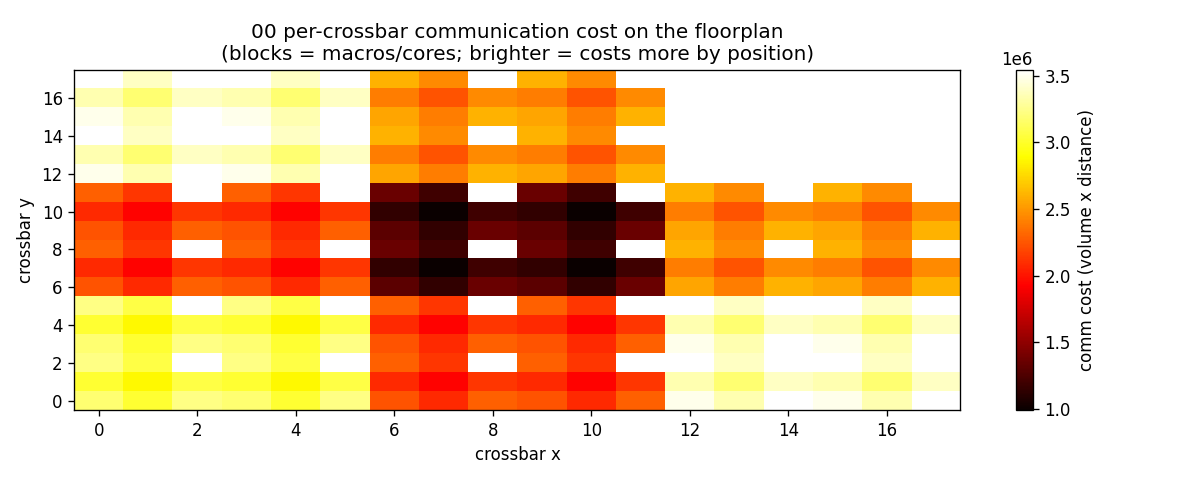
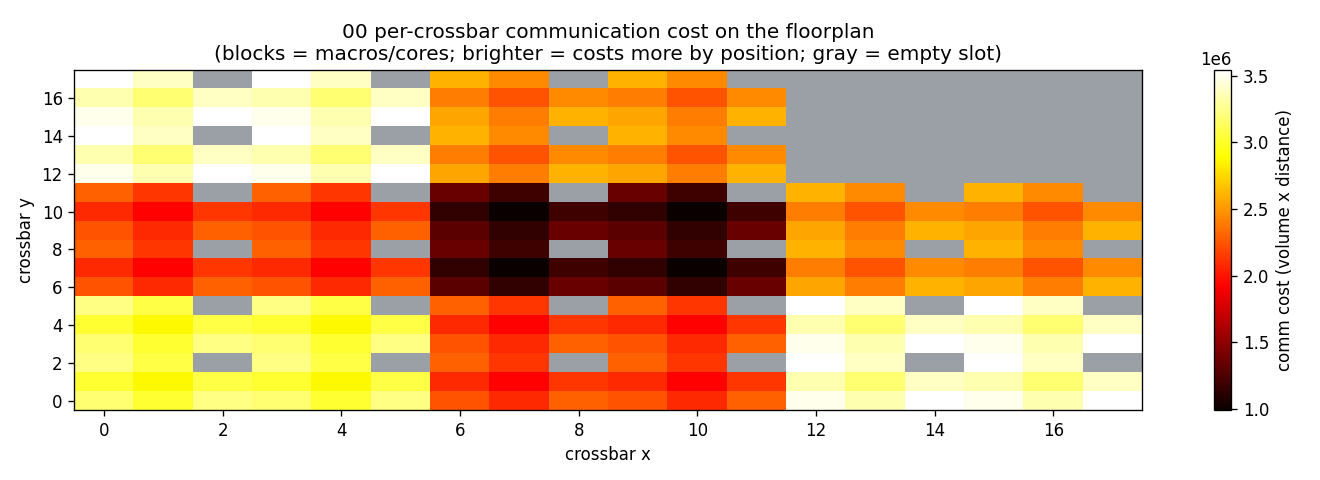
Real per-crossbar value-energy investigation (device x workload) + doc restructure
crossbar_value_real.py: a two-stage pipeline (torch extract | cimloop simulate, to
avoid an OpenMP segfault) that tiles REAL weights (GPT-2 medium / resnet18) + REAL
forward activations into 256x256 crossbar blocks and re-runs CiMLoop's single-
crossbar energy per block with its own weight+input distribution, then sums -- a
genuine per-crossbar simulation, not a redistribution.

Finding (analyze_crossbar_value_compare.py, 2x2 device x workload): per-crossbar
value-dependent energy variation is device-dependent. Bit-serial devices (wan) are
~0 for any workload (energy set by precision/phases/ADC, not values); a value-
sparsity device (raella) spreads up to 1.204x on a CNN, driven by ReLU-sparse input
heterogeneity (LayerNorm homogenizes it away on GPT-2). The earlier synthetic 1.28x
was a placeholder and is retired.

Docs: SUMMARY.en.md §3 rebuilt into a real crossbar-level analysis (stats tool +
§3.1 the experiment + figure); §4.5 trimmed to the histogram-injection correctness;
§8/§10 updated. crossbar_comm heatmap: empty slots now render gray (not white, which
collided with the hot-colormap high end); colorbar spacing fixed.

diff --git a/workspace/scripts/crossbar_value_real.py b/workspace/scripts/crossbar_value_real.py
@@ -1,0 +1,163 @@
+"""
+REAL per-crossbar value-dependent energy (Plan A), split into TWO processes so the
+torch/transformers stack and the cimloop/timeloop stack never share an interpreter
+(they segfault together -- an OpenMP clash):
+
+  extract  : (torch only) load a real weight tensor, tile it into 256x256 blocks,
+             histogram each block + the whole layer, save to JSON.
+  simulate : (cimloop only) for each tile histogram, run CiMLoop's single-crossbar
+             energy (system=ws_dummy_buffer_one_macro) with that weight distribution;
+             sum the tiles. One macro run == one 256x256 crossbar; a layer weight
+             [C x M] tiles into (C/256)x(M/256) blocks, so the tile-sum is the whole
+             layer, but distribution-accurate per crossbar. The sum DIFFERS from the
+             layer-uniform run (energy is nonlinear in the distribution) -- that gap
+             is the genuine crossbar-aware information, not a redistribution.
+
+Usage (two separate docker exec calls):
+  python3 scripts/crossbar_value_real.py extract  <hists.json>
+  python3 scripts/crossbar_value_real.py simulate <hists.json>
+"""
+import os, sys, json
+
+os.environ.setdefault("HF_HOME", "/home/workspace/.cache/hf")
+ARR = 256
+NBINS = 31
+
+
+def symmetric_hist(w, A, nbins=NBINS):
+    """31-bin symmetric zero-centered normalized histogram (numpy only)."""
+    import numpy as np
+    edges = np.linspace(-A, A, nbins + 1)
+    h, _ = np.histogram(np.clip(w, -A, A), bins=edges)
+    h = h.astype(float)
+    s = h.sum()
+    return (h / s).tolist() if s else (np.ones(nbins) / nbins).tolist()
+
+
+def extract(out_json):
+    import numpy as np
+    from transformers import GPT2Model
+    import torch
+    from transformers import GPT2Tokenizer
+    print("loading gpt2-medium ...", flush=True)
+    tok = GPT2Tokenizer.from_pretrained("gpt2-medium")
+    m = GPT2Model.from_pretrained("gpt2-medium").eval()
+    W = m.h[0].mlp.c_fc.weight.detach().numpy()      # Conv1D c_fc: [C=1024, M=4096]
+
+    # capture the REAL ffn1 INPUT activations on a sample text (the value-dependent
+    # energy is driven by inputs, not weights -- see the sensitivity probe).
+    text = ("The transformer architecture has become the dominant approach for "
+            "natural language processing, powering large language models that "
+            "generate text, translate languages, and answer questions.")
+    grab = {}
+    h = m.h[0].mlp.c_fc.register_forward_hook(
+        lambda mod, inp, out: grab.__setitem__("x", inp[0].detach().numpy()))
+    with torch.no_grad():
+        m(**tok(text, return_tensors="pt"))
+    h.remove()
+    X = grab["x"].reshape(-1, W.shape[0])            # [tokens, C=1024]
+
+    C, M = W.shape
+    Aw = float(np.max(np.abs(W))) or 1.0
+    Ax = float(np.max(np.abs(X))) or 1.0
+    nr, nc = C // ARR, M // ARR
+    # weight tile per crossbar (r,c); input slice per contraction block r (256 chans)
+    wtiles = [symmetric_hist(W[r*ARR:(r+1)*ARR, c*ARR:(c+1)*ARR].reshape(-1), Aw)
+              for r in range(nr) for c in range(nc)]
+    iblocks = [symmetric_hist(X[:, r*ARR:(r+1)*ARR].reshape(-1), Ax) for r in range(nr)]
+    json.dump({"tag": "ffn1_gpt2medium", "shape": [C, M], "nr": nr, "nc": nc,
+               "layer_whist": symmetric_hist(W.reshape(-1), Aw),
+               "layer_ihist": symmetric_hist(X.reshape(-1), Ax),
+               "wtiles": wtiles, "iblocks": iblocks}, open(out_json, "w"))
+    print(f"saved {out_json}: W {C}x{M} -> {nr}x{nc}={len(wtiles)} tiles, "
+          f"{nr} input blocks from {X.shape[0]} tokens", flush=True)
+
+
+def extract_cnn(out_json):
+    """A CNN conv layer: no LayerNorm, trained (non-Gaussian) filters, and ReLU'd
+    inputs whose channels differ a lot in sparsity -> a stronger test for per-crossbar
+    value-dependent variation than a layernormed transformer."""
+    import numpy as np, torch
+    import torch.nn.functional as F
+    import torchvision.models as M
+    print("loading resnet18 ...", flush=True)
+    net = M.resnet18(weights=M.ResNet18_Weights.DEFAULT).eval()
+    conv = net.layer4[1].conv1                        # in=512, out=512, 3x3 (deep, post-ReLU)
+    grab = {}
+    hd = conv.register_forward_hook(
+        lambda mod, inp, out: grab.__setitem__("x", inp[0].detach()))
+    with torch.no_grad():
+        net(torch.randn(8, 3, 224, 224))              # 8 random images -> deep activations
+    hd.remove()
+    X = grab["x"]                                     # [8, 512, 7, 7], ReLU'd, sparse
+    kh, kw = conv.kernel_size
+    unf = F.unfold(X, (kh, kw), padding=conv.padding, stride=conv.stride)  # [8, 512*9, L]
+    Xc = unf.permute(1, 0, 2).reshape(unf.shape[1], -1).numpy()            # [C=4608, 8L]
+    Wt = conv.weight.detach()                         # [out=512, in=512, 3,3]
+    W = Wt.reshape(Wt.shape[0], -1).numpy().T         # [C=in*kh*kw=4608, M=out=512]
+
+    C, Mo = W.shape
+    Aw = float(np.max(np.abs(W))) or 1.0
+    Ax = float(np.max(np.abs(Xc))) or 1.0
+    nr, nc = C // ARR, Mo // ARR
+    wtiles = [symmetric_hist(W[r*ARR:(r+1)*ARR, c*ARR:(c+1)*ARR].reshape(-1), Aw)
+              for r in range(nr) for c in range(nc)]
+    iblocks = [symmetric_hist(Xc[r*ARR:(r+1)*ARR, :].reshape(-1), Ax) for r in range(nr)]
+    # report input-block sparsity spread (fraction of near-zero mass per block)
+    zc = [ib[len(ib)//2] for ib in iblocks]
+    json.dump({"tag": "resnet18_layer4.1.conv1", "shape": [C, Mo], "nr": nr, "nc": nc,
+               "layer_whist": symmetric_hist(W.reshape(-1), Aw),
+               "layer_ihist": symmetric_hist(Xc.reshape(-1), Ax),
+               "wtiles": wtiles, "iblocks": iblocks}, open(out_json, "w"))
+    print(f"saved {out_json}: W {C}x{Mo} -> {nr}x{nc}={len(wtiles)} tiles, "
+          f"{nr} input blocks; per-block zero-mass min {min(zc):.2f} max {max(zc):.2f}",
+          flush=True)
+
+
+def simulate(in_json, macro="wan_nature_2022"):
+    import numpy as np
+    sys.path.insert(0, "/home/workspace")
+    from scripts import utils as utl
+    from scripts import value_stats as vs
+    d = json.load(open(in_json))
+    io = vs.representative_histograms("gpt2_medium", ("Conv1D", "Linear"))
+    print(f"device macro = {macro}", flush=True)
+
+    def macro_energy(weight_hist, input_hist):
+        spec = utl.get_spec(macro=macro,
+                            system="ws_dummy_buffer_one_macro", max_utilization=True)
+        spec.problem["histograms"] = {"Inputs": input_hist, "Weights": weight_hist,
+                                      "Outputs": io["Outputs"]}
+        return utl.run_mapper(spec).energy
+
+    nr, nc = d["nr"], d["nc"]
+    n = nr * nc
+    print(f"[{d['tag']}] {nr}x{nc}={n} crossbars; per crossbar (r,c): "
+          f"weight tile[r,c] + input block[r]", flush=True)
+    # uniform: layer weight + layer input, applied to every crossbar
+    e_uni = macro_energy(d["layer_whist"], d["layer_ihist"]) * n
+    # REAL: each crossbar uses its own weight tile AND its contraction block's input
+    per = np.array([macro_energy(d["wtiles"][r*nc + c], d["iblocks"][r])
+                    for r in range(nr) for c in range(nc)])
+    e_real = per.sum()
+    print(f"  uniform (layer hists x{n})  : {e_uni:.4e} J")
+    print(f"  REAL   (per-crossbar in+wt) : {e_real:.4e} J  "
+          f"({100*(e_real/e_uni-1):+.2f}% vs uniform)")
+    print(f"  per-crossbar energy: min {per.min():.3e}  max {per.max():.3e}  "
+          f"max/min {per.max()/per.min():.3f}x")
+    out = in_json.replace(".json", f"_{macro}_energy.json")
+    json.dump({"tag": d["tag"], "macro": macro, "nr": nr, "nc": nc,
+               "uniform_total": e_uni, "real_total": e_real,
+               "ratio": float(per.max() / per.min()),
+               "per_crossbar": per.tolist()}, open(out, "w"))
+    print(f"  saved per-crossbar energies -> {out}", flush=True)
+
+
+if __name__ == "__main__":
+    cmd = sys.argv[1] if len(sys.argv) > 1 else "extract"
+    path = (sys.argv[2] if len(sys.argv) > 2
+            else "/home/workspace/analysis/tile_hists_ffn1.json")
+    if cmd == "simulate":
+        simulate(path, sys.argv[3] if len(sys.argv) > 3 else "wan_nature_2022")
+    else:
+        {"extract": extract, "extract_cnn": extract_cnn}[cmd](path)

diff --git a/workspace/scripts/analyze_crossbar_value_compare.py b/workspace/scripts/analyze_crossbar_value_compare.py
@@ -1,0 +1,64 @@
+"""
+2x2 comparison of per-crossbar value-dependent energy across DEVICE x WORKLOAD,
+from the real per-tile pipeline (crossbar_value_real.py). Each panel shows the
+per-crossbar energy on the tile grid, normalized to that panel's mean (so the
+color is RELATIVE variation), with a shared color scale so panels are comparable.
+
+Rows   = device  : wan (bit-serial, value-insensitive) vs raella (value-sensitive)
+Cols   = workload: GPT-2 ffn1 (LayerNorm, homogeneous inputs) vs resnet18 conv
+                   (no LN, ReLU-sparse, heterogeneous inputs)
+"""
+import os, json, sys
+import numpy as np
+import matplotlib
+matplotlib.use("Agg")
+import matplotlib.pyplot as plt
+
+OUT = "/home/workspace/analysis"
+CELLS = {
+    ("wan_nature_2022", "ffn1"):   f"{OUT}/tile_hists_ffn1_wan_nature_2022_energy.json",
+    ("wan_nature_2022", "cnn"):    f"{OUT}/tile_hists_cnn_wan_nature_2022_energy.json",
+    ("raella_isca_2023", "ffn1"):  f"{OUT}/tile_hists_ffn1_raella_isca_2023_energy.json",
+    ("raella_isca_2023", "cnn"):   f"{OUT}/tile_hists_cnn_raella_isca_2023_energy.json",
+}
+DEV_LABEL = {"wan_nature_2022": "wan (bit-serial)",
+             "raella_isca_2023": "raella (value-sensitive)"}
+WL_LABEL = {"ffn1": "GPT-2 ffn1 (LayerNorm)",
+            "cnn": "resnet18 conv (ReLU-sparse)"}
+
+grids = {}
+for key, path in CELLS.items():
+    d = json.load(open(path))
+    g = np.array(d["per_crossbar"], dtype=float).reshape(d["nr"], d["nc"])
+    grids[key] = (g / g.mean(), d.get("ratio", g.max() / g.min()))
+
+# shared color scale from the widest-spread panel
+allnorm = np.concatenate([g.ravel() for g, _ in grids.values()])
+vmin, vmax = allnorm.min(), allnorm.max()
+
+fig, axes = plt.subplots(2, 2, figsize=(12, 8.5))
+for i, dev in enumerate(["wan_nature_2022", "raella_isca_2023"]):
+    for j, wl in enumerate(["ffn1", "cnn"]):
+        ax = axes[i, j]
+        g, ratio = grids[(dev, wl)]
+        im = ax.imshow(g, cmap="viridis", vmin=vmin, vmax=vmax,
+                       origin="lower", aspect="auto")
+        ax.set_title(f"{DEV_LABEL[dev]}  x  {WL_LABEL[wl]}\n"
+                     f"per-crossbar spread = {ratio:.3f}x", fontsize=10)
+        ax.set_xlabel("crossbar col"); ax.set_ylabel("crossbar row")
+
+fig.suptitle("Per-crossbar value-dependent energy (real weights + activations, per-tile "
+             "re-simulation)\ncolor = energy / panel-mean; only a value-sensitive device "
+             "+ heterogeneous inputs shows real spread", fontsize=12)
+# reserve the right margin for panels, put the colorbar in its own axes further
+# right so it never overlaps the top-right panel.
+fig.subplots_adjust(top=0.86, bottom=0.08, left=0.07, right=0.86,
+                    hspace=0.55, wspace=0.18)
+cax = fig.add_axes([0.90, 0.12, 0.02, 0.68])
+cbar = fig.colorbar(im, cax=cax)
+cbar.set_label("per-crossbar energy / panel mean")
+p = os.path.join(OUT, "crossbar_value_device_compare.png")
+plt.savefig(p, dpi=120); plt.close()
+print("saved", p)
+for (dev, wl), (g, ratio) in grids.items():
+    print(f"  {DEV_LABEL[dev]:<26} {WL_LABEL[wl]:<30} spread {ratio:.3f}x")

diff --git a/workspace/scripts/crossbar_comm.py b/workspace/scripts/crossbar_comm.py
@@ -237,11 +237,17 @@ def summarize_and_plot(output_dir, layer_name="", out_png=None):
                                "..", "analysis", f"crossbar_comm_{layer_name or 'layer'}.png")
         out_png = "/home/workspace/analysis/crossbar_comm_heatmap.png"
     os.makedirs(os.path.dirname(out_png), exist_ok=True)
-    plt.figure(figsize=(10, 4))
-    im = plt.imshow(grid, cmap="hot", origin="lower", aspect="auto")
-    plt.colorbar(im, label="comm cost (volume x distance)")
+    # empty floorplan slots (the near-square nesting leaves gaps: 8 crossbars in a
+    # 3x3 core, 8 macros in a 3x3 die) are NaN -> render them a distinct GRAY, not
+    # white, so they don't read as high-cost cells (the hot colormap tops out white).
+    cmap = plt.cm.hot.copy()
+    cmap.set_bad(color="#9aa0a6")
+    plt.figure(figsize=(11, 4))
+    im = plt.imshow(grid, cmap=cmap, origin="lower", aspect="auto")
+    plt.colorbar(im, label="comm cost (volume x distance)", fraction=0.046, pad=0.06)
     plt.title(f"{layer_name} per-crossbar communication cost on the floorplan\n"
-              "(blocks = macros/cores; brighter = costs more by position)")
+              "(blocks = macros/cores; brighter = costs more by position; "
+              "gray = empty slot)")
     plt.xlabel("crossbar x"); plt.ylabel("crossbar y")
     plt.tight_layout(); plt.savefig(out_png, dpi=120); plt.close()
     print(f"\nPNG  -> {out_png}")

diff --git a/workspace/analysis/SUMMARY.en.md b/workspace/analysis/SUMMARY.en.md
@@ -78,12 +78,57 @@ We overlay distance:
 
 ---
 
-## 3. Crossbar-level statistics
+## 3. Crossbar-level analysis
 
-- [`scripts/crossbar_stats.py`](../scripts/crossbar_stats.py) — per-crossbar
-  compute/weight/input/output (average), per-level bus traffic, and the
-  communication STRUCTURE parsed from the mapping (multicast/reduction/bit-slice).
-  Per-pair flows use it as input.
+**Tool:** [`scripts/crossbar_stats.py`](../scripts/crossbar_stats.py) — per-crossbar
+compute/weight/input/output (average), per-level bus traffic, and the
+mapping-parsed communication structure (multicast/reduction/bit-slice); the
+per-pair flows (§2/§7) use it as input.
+
+But averages hide per-crossbar variation. Crossbars actually differ for two
+reasons: **physical position** (communication cost, §2/§7, 3.58×) and **the
+operand distribution each one sees** (value-dependent energy, below).
+
+### 3.1 Per-crossbar value-dependent energy (real per-tile re-simulation)
+
+**Question:** each crossbar holds a different weight tile and sees a different
+input slice — does its energy differ as a result?
+
+**Method** ([`scripts/crossbar_value_real.py`](../scripts/crossbar_value_real.py),
+two-stage to avoid a torch/timeloop segfault): load **real weights** (GPT-2 medium
+/ resnet18) + **real forward activations**, tile the weight [C×M] into 256×256
+crossbar blocks, and **re-run CiMLoop's single-crossbar energy per block** with that
+block's own weight+input histogram, then sum. Energy is nonlinear in the
+distribution, so this is a genuine per-crossbar simulation, not a redistribution of
+the total.
+
+**Result (2×2, device × workload):**
+
+![per-crossbar value energy: device x workload](crossbar_value_device_compare.png)
+
+| per-crossbar spread | GPT-2 ffn1 (LayerNorm) | resnet18 conv (ReLU-sparse) |
+|---|---|---|
+| **wan** (bit-serial) | 1.000× | 1.002× |
+| **raella** (value-sensitive) | 1.010× | **1.204×** |
+
+**Findings:**
+1. **Device decides it.** wan/wang/basic are **bit-serial** — energy is set by
+   precision / phases / ADC steps, not values → per-crossbar ≈ 0 for any workload.
+   **raella (ISCA'23)**, built to exploit bit/value sparsity, is value-driven → a
+   real spread.
+2. **Input heterogeneity is the workload lever.** On raella, the CNN (no LayerNorm,
+   ReLU-sparse inputs whose channel blocks are 80–91% zeros) spreads **1.204×
+   (20%)**; GPT-2 (LayerNorm homogenizes channels) only 1.010×. The spread is along
+   the contraction ROW block (which 256 input channels a crossbar sees), not the
+   weight column — weight distribution barely matters (~1% even at extremes).
+3. So **per-crossbar value-dependent energy is only worth modeling on a
+   value-sensitive device with heterogeneous inputs.** Whether it matters for the
+   company chip hinges on its device class (plain bit-serial MAC vs value/bit-
+   sparsity-exploiting).
+
+(A lightweight switchable mode [`crossbar_value.py`](../scripts/crossbar_value.py)
+`run_op(value_mode="uniform"|"per_crossbar")` does a fast activity-scaled
+attribution; the real answer above comes from the per-tile re-simulation.)
 
 ---
 
@@ -112,31 +157,12 @@ ReRAM is weight-stationary — good for static weights (FFN/projections); dynami
 attention is the offload candidate.
 ![GPT-2 static vs dynamic offload](gpt2_static_vs_dynamic.png)
 
-### 4.5 Value-dependent energy correction + per-crossbar mode
+### 4.5 Value-dependent energy correction (model-matched histograms)
 CiMLoop energy is **data-value-dependent**: each layer's `histograms` set the ReRAM
 analog current / ADC / cell conduction → energy. The synthetic workload once reused
 ResNet's distribution; now [`scripts/value_stats.py`](../scripts/value_stats.py)
-**injects per simulated model + op type** (change model → change `hist_source`).
-
-**Per-crossbar mode** ([`scripts/crossbar_value.py`](../scripts/crossbar_value.py),
-`run_op(value_mode=...)`):
-- `"uniform"` (default) = one distribution for the whole op, every crossbar
-  identical (current behavior, exact);
-- `"per_crossbar"` = **each crossbar uses its own tile's distribution** → its own
-  value-dependent energy.
-
-Measured split: energy = **floor (fixed, 75%) + value part (distribution-dependent,
-25%)** (the floor is calibrated by running an all-zero distribution). Per crossbar we
-scale only the value part, **total conserved**:
-```
-E_i = E_floor/N + (E_value/N) × (activity_i / mean_activity)
-```
-The per-crossbar distribution source is pluggable: `uniform` / `synthetic`
-(placeholder, tile-to-tile magnitude spread) / `weights` (interface ready, pending
-real weight-tensor tiling). Demo (ffn1, synthetic spread=0.5): total conserved but
-**per-crossbar energy spreads 1.28×**:
-
-![per-crossbar value-dependent energy heatmap](crossbar_value_heatmap.png)
+**injects per simulated model + op type** (change model → change `hist_source`), no
+leakage.
 
 ---
 
@@ -288,22 +314,19 @@ distribution per op type** — three clear placeholder simplifications:
    spread one op spatially across dies (arch supports it, not yet exercised). Every
    GPT-2 medium layer fits, so this is untriggered.
 
-4. **Value-dependent distribution granularity:**
-   - **across layers**: one averaged distribution each for static/dynamic (all 24
-     layers' static ops share one);
-   - **across crossbars within a layer**: `value_mode="uniform"` (default) is
-     uniform → per-crossbar energy is symmetric; `value_mode="per_crossbar"` (§4.5,
-     **implemented**) scales each crossbar's value part by its own distribution → a
-     per-crossbar spread, **but the distribution is currently a synthetic placeholder**;
-   - to add: tile a real weight tensor per the mapping → a histogram per 256×256 tile
-     (`source="weights"`, interface ready), which makes the per-crossbar spread real.
+4. **Value-dependent distribution granularity:** across layers, one averaged
+   distribution each for static/dynamic (all 24 layers' static ops share one).
+   Within a layer, the real **per-crossbar** variation was verified with real
+   weights + activations (§3.1): it is **device-dependent** — bit-serial (wan) ≈ 0,
+   value-sensitive (raella) + heterogeneous inputs (CNN) up to 1.204×. So whether
+   per-crossbar value modeling is needed depends on which class the company device is.
 
 5. **Topology / bit-width / hop costs are all placeholders** (see §9), pending company
    parameters.
 
-**Relaxation roadmap (by value):** ① per-crossbar distribution — **mode already
-implemented (§4.5)**, only needs `source` wired to a real weight tensor → ② capacity
-packing (realistic die count) → ③ oversized layers across dies (`meshX>1`).
+**Relaxation roadmap (by value):** ① capacity packing (realistic die count) →
+② oversized layers across dies (`meshX>1`). (Per-crossbar value distribution already
+verified, see §3.1.)
 
 ---
 
@@ -333,11 +356,12 @@ packing (realistic die count) → ③ oversized layers across dies (`meshX>1`).
 | `crossbar_comm.py` | per-pair flows + heatmap + geometry hops + `save_flows()` (auto-dump) |
 | `llm_workload.py` | sequence scaling + write cost/latency + KV-cache + die-to-die + histogram injection |
 | `value_stats.py` | general value-histogram loader (by model / layer type) |
-| `crossbar_value.py` | per-crossbar value-dependent energy mode (uniform / per_crossbar) |
+| `crossbar_value.py` | fast activity-scaled per-crossbar value energy mode (uniform / per_crossbar) |
+| `crossbar_value_real.py` | REAL per-crossbar value-energy pipeline (real weights+activations, per-tile re-simulation; two-stage) |
 | `analyze_gpt2_offload.py` | GPT-2 static/dynamic offload analysis |
 | `analyze_energy_vs_latency.py` | energy vs latency view chart |
 | `analyze_system_gpt2.py` | whole GPT-2 system-level three-way comparison, args `[S] [phase]` |
-| `analyze_crossbar_value.py` | per-crossbar energy demo (uniform vs per_crossbar) + heatmap |
+| `analyze_crossbar_value_compare.py` | device × workload 2×2 per-crossbar energy comparison (§3.1) |
 
 ```python
 from scripts import llm_workload as lw
